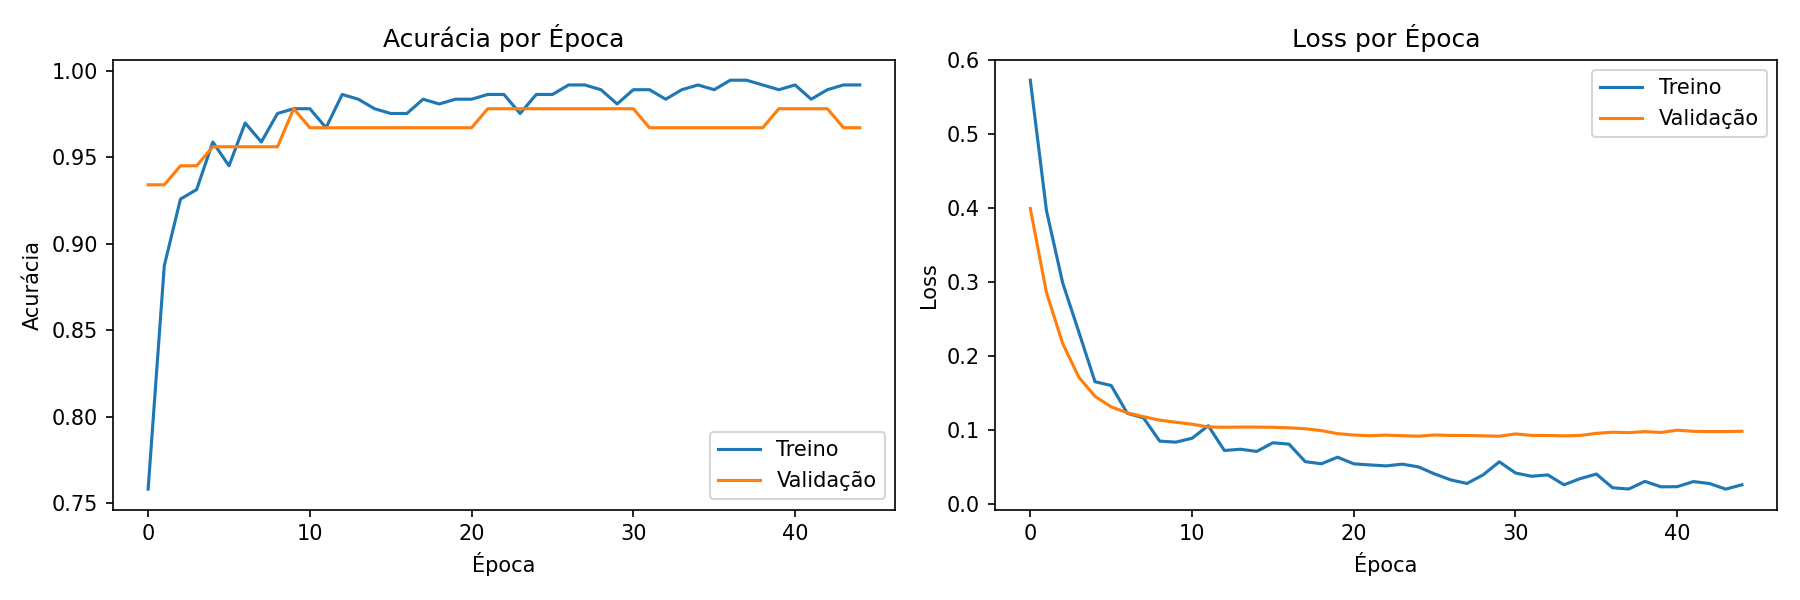
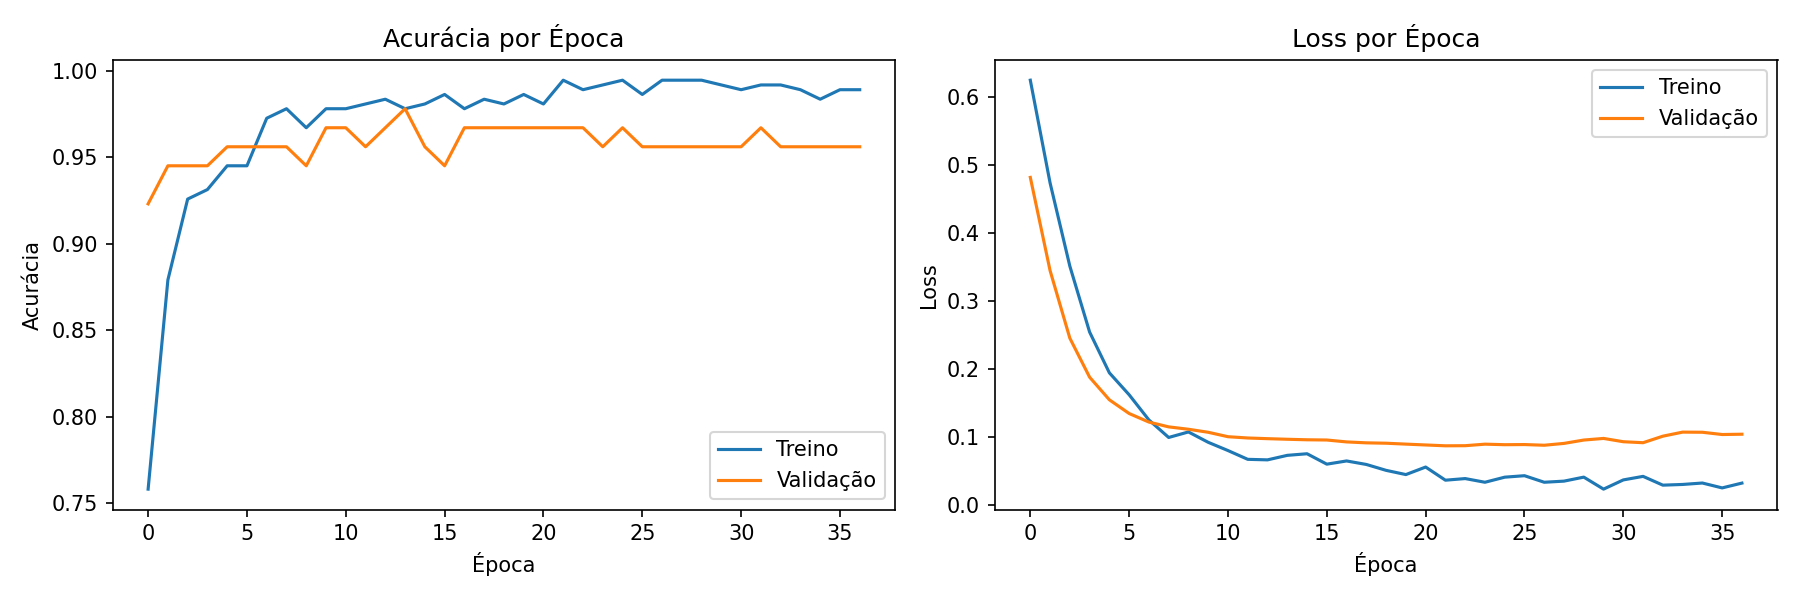
wip

diff --git a/neural_network_cancer.py b/neural_network_cancer.py
@@ -1,6 +1,6 @@
 # ============================================================
 #  Classificação de Câncer de Mama com Redes Neurais (Keras)
-#  Dataset: wisc_bc_data.csv
+#  Dataset: wisc_bc_data.csv (Wisconsin Breast Cancer) 569 pacientes e 30 dados clínicos
 #  Objetivo: Classificar tumor como Maligno (M) ou Benigno (B)
 # ============================================================
 